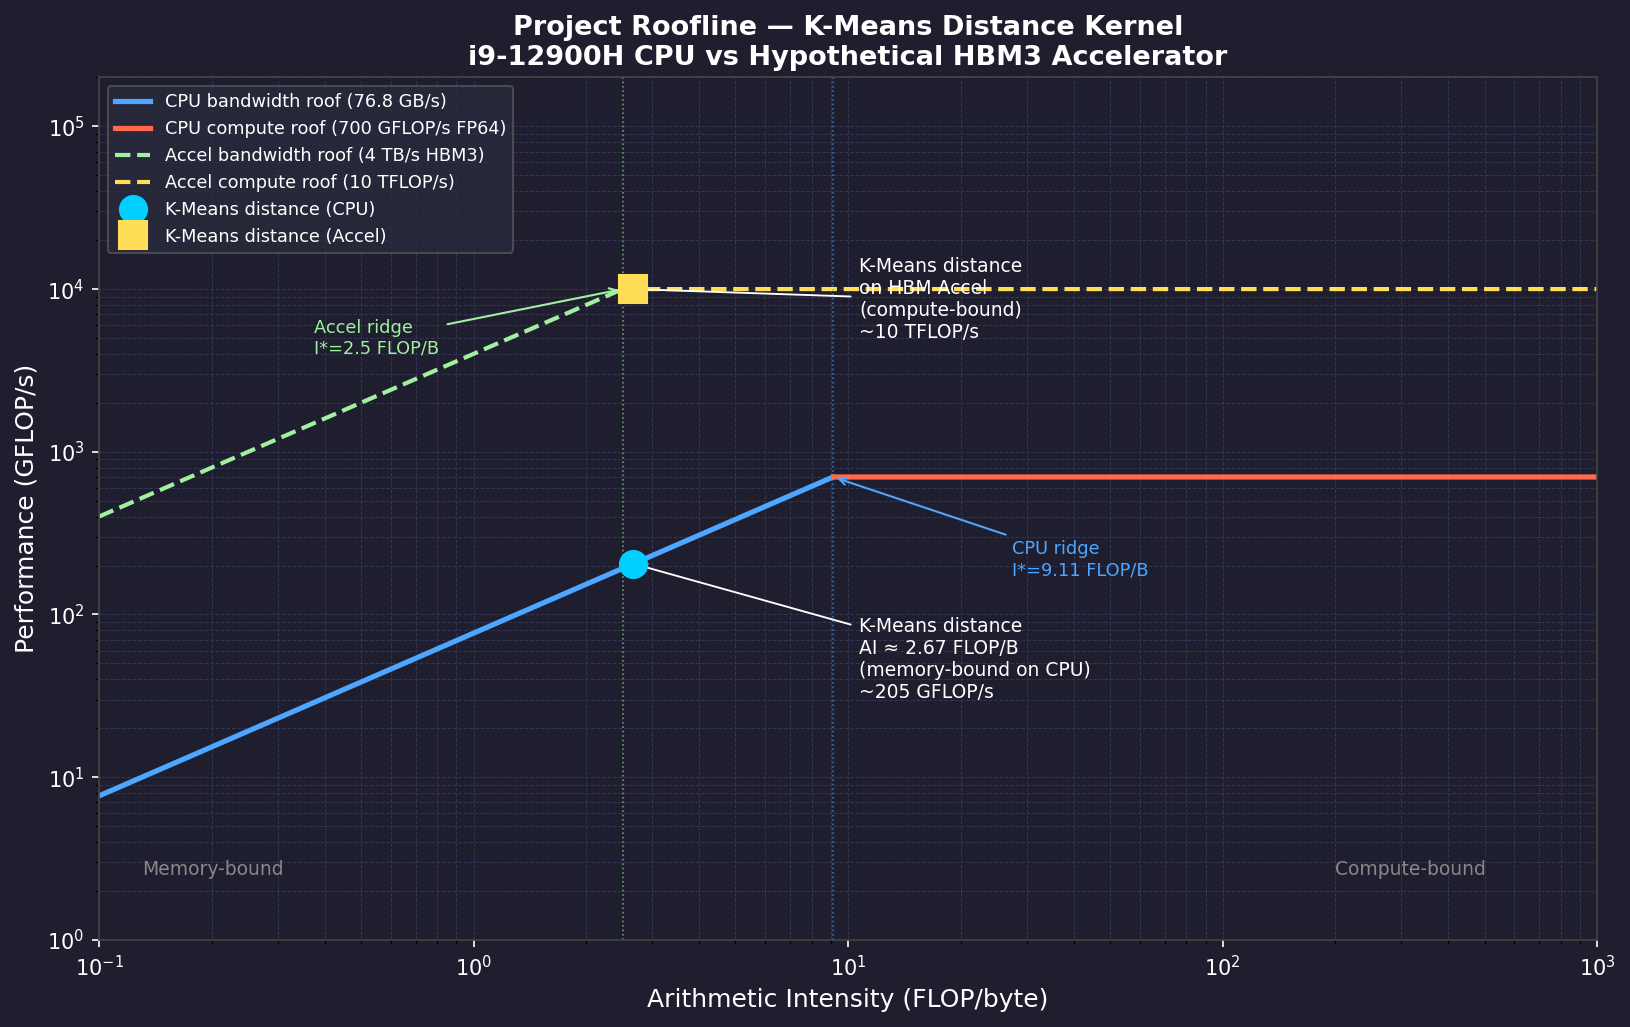
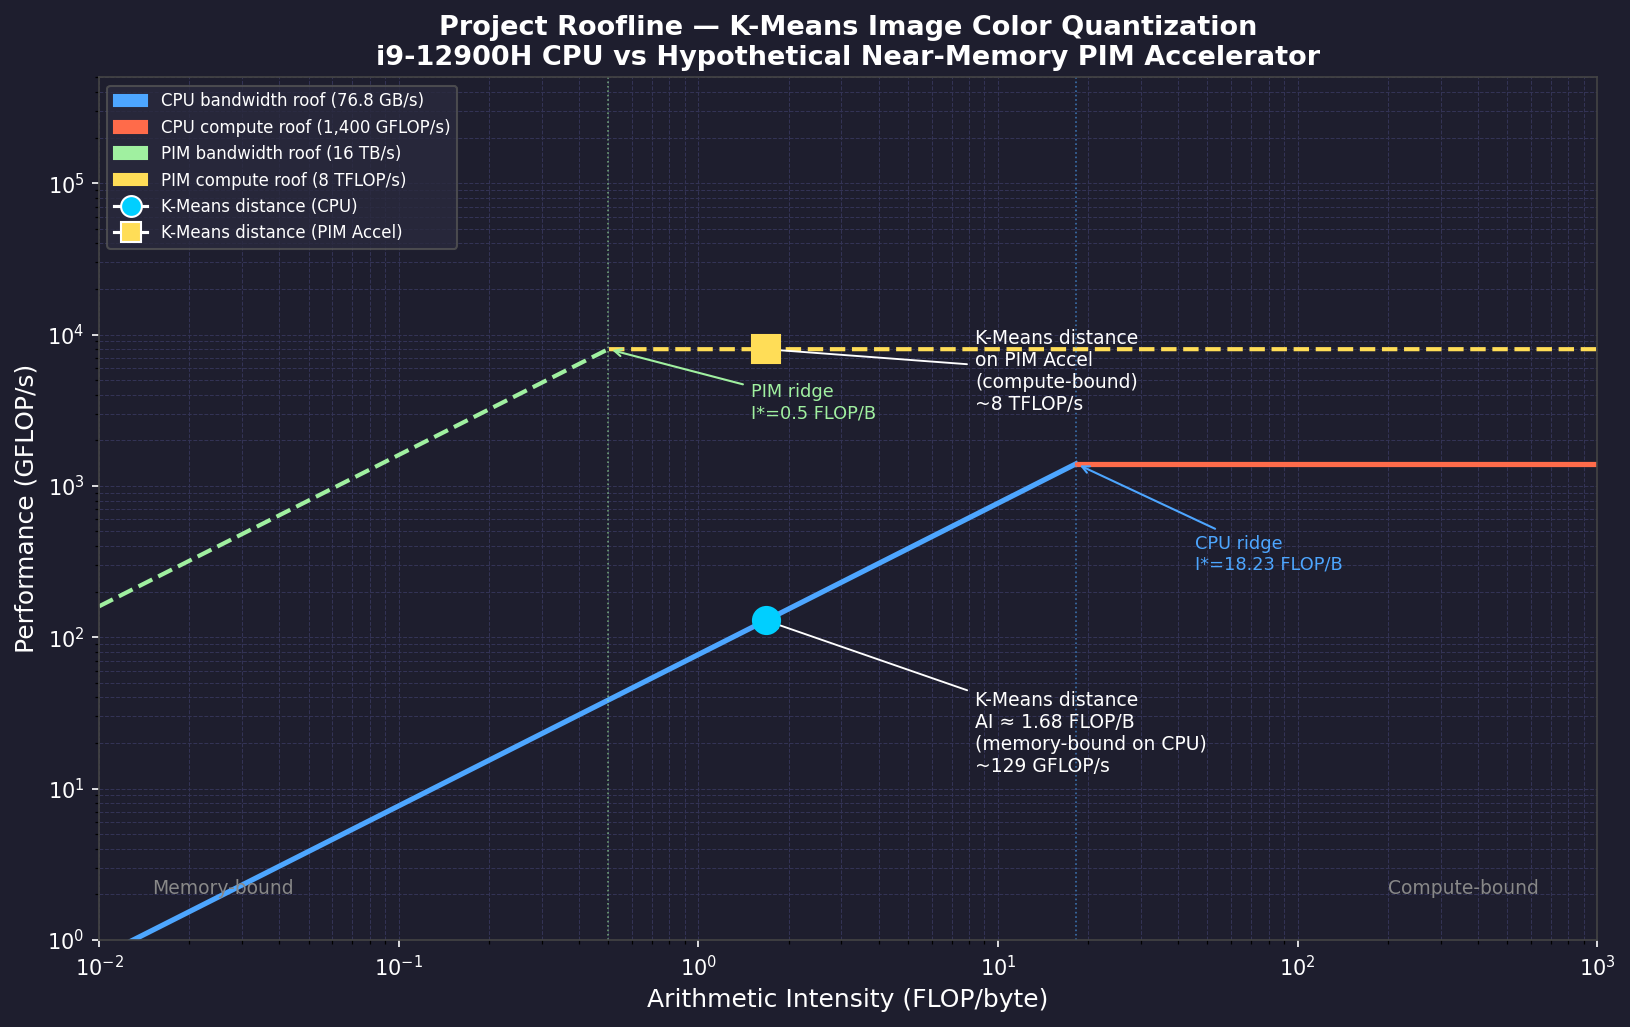
Update CLLM: K-Means image color quantization on real image
- profiling: cProfile on bliss.jpg 800x600, N=480k pixels, D=3, K=16, 10 runs
- ai_calculation: distance kernel AI = 1.68 FLOP/byte (deeply memory-bound)
- roofline: CPU vs near-memory PIM accelerator (16 TB/s), kernel becomes compute-bound
- bliss_quantized.png: example quantized output image (K=16 colors)
- partition_rationale: PIM near-memory accelerator proposal, 62x speedup potential
- heilmeier: updated for image quantization use case with profiling data

diff --git a/codefest/cf02/analysis/partition_rationale.md b/codefest/cf02/analysis/partition_rationale.md
@@ -1,4 +1,4 @@
-# HW/SW Partition Proposal — K-Means Clustering
+# HW/SW Partition Proposal — K-Means Image Color Quantization
 Bao Nguyen  
 ECE 410/510 Spring 2026
 
@@ -12,32 +12,32 @@ The kernel selected for hardware acceleration is the **pairwise distance computa
 distances = np.sum((points[:, np.newaxis] - centroids) ** 2, axis=2)
 ```
 
-The `cProfile` output identifies this as the dominant bottleneck — `numpy.ufunc.reduce` accounts for **5.57 seconds out of 39.3 seconds total** across 10 runs (N=50,000, D=64, K=8). It is called every iteration and scales as O(N × K × D), making it the clear compute target.
+The `cProfile` output on a real image (bliss.jpg, 800×600, N=480,000 pixels, D=3 RGB, K=16) identifies this as the dominant bottleneck — `numpy.ufunc.reduce` accounts for **42.53 seconds out of 91.96 seconds total (46% of runtime)** across 10 runs.
 
-The roofline analysis supports this choice. With an arithmetic intensity of **2.67 FLOP/byte**, the kernel sits deep in the memory-bound region on the i9-12900H (ridge point = 9.11 FLOP/byte). The attainable performance ceiling is only ~205 GFLOP/s, far below peak compute. A near-memory accelerator with HBM3-class bandwidth (4 TB/s) shifts the ridge point to 2.5 FLOP/byte, placing the kernel just above the ridge point and making it **compute-bound** — meaning the accelerator can reach near-peak throughput for this kernel.
+The roofline analysis strongly supports hardware acceleration. The arithmetic intensity is only **1.68 FLOP/byte** — the kernel sits deep in the memory-bound region on the i9-12900H (ridge point = 18.23 FLOP/byte). The attainable ceiling on the CPU is just ~129 GFLOP/s, barely 9% of peak compute. A near-memory Processing-In-Memory (PIM) accelerator with 16 TB/s bandwidth shifts the ridge point to 0.5 FLOP/byte, placing the kernel in the compute-bound region and allowing near-peak 8 TFLOP/s throughput.
 
 ## (b) What the software baseline will continue to handle
 
-The software baseline on the CPU will handle: centroid initialization, the convergence check (`np.allclose`), centroid update (`mean` per cluster), and overall loop control. These operations are infrequent or operate on small data (K × D centroid arrays), so accelerating them would yield negligible benefit.
+The CPU software baseline will handle: image loading and resizing, centroid initialization, the convergence check, centroid update (averaging pixels per cluster), and final pixel replacement to reconstruct the output image. These operations are either small (K × D centroid data) or not compute-intensive, and offloading them would yield negligible benefit.
 
 ## (c) Interface bandwidth required
 
-Per iteration, the kernel transfers approximately **28.8 MB** of data. At a target accelerator throughput of 10 TFLOP/s, one distance computation completes in:
+Per iteration, the distance kernel transfers approximately **36.5 MB** of data. At a target accelerator throughput of 8 TFLOP/s, one distance computation completes in:
 
 ```
-time = FLOPs / throughput = 76,800,000 / (10 × 10^12) ≈ 7.7 μs
+time = FLOPs / throughput = 61,440,000 / (8 × 10^12) ≈ 7.7 ns
 ```
 
 Required interface bandwidth to avoid becoming interface-bound:
 
 ```
-BW_needed = 28,804,096 bytes / 7.7 μs ≈ 3.74 TB/s
+BW_needed = 36,480,192 bytes / 7.7 ns ≈ 4.7 TB/s
 ```
 
-This confirms the accelerator needs **≥ 3.74 TB/s** of memory bandwidth — consistent with the HBM3 target of 4 TB/s in the design. Standard PCIe (64 GB/s) would be a severe bottleneck; HBM or on-chip SRAM with DMA is required.
+This confirms the accelerator needs at least **~5 TB/s of memory bandwidth**. The proposed 16 TB/s design provides comfortable headroom. Standard LPDDR5 (~68 GB/s) or PCIe 5.0 (~128 GB/s) would be completely inadequate — only HBM or on-die SRAM can sustain this bandwidth.
 
 ## (d) Bound classification and expected change with accelerator
 
-On the i9-12900H, the distance kernel is **memory-bound** (AI = 2.67 < ridge 9.11). The CPU cannot feed data fast enough to keep compute units busy.
+On the i9-12900H, the kernel is **deeply memory-bound** (AI = 1.68 << ridge 18.23). The CPU's 76.8 GB/s DRAM bandwidth cannot feed the compute units fast enough — they sit idle >90% of the time.
 
-On the hypothetical HBM3 accelerator (10 TFLOP/s, 4 TB/s), the ridge point drops to 2.5 FLOP/byte. Since AI = 2.67 > 2.5, the kernel becomes **compute-bound** on the accelerator. This is the key advantage: by pairing high-bandwidth memory with dedicated MAC units, the accelerator eliminates the memory bottleneck and allows the distance computation to run at near-peak arithmetic throughput — a fundamental shift in the performance limiting factor.
+On the hypothetical PIM accelerator (8 TFLOP/s, 16 TB/s), the ridge point drops to 0.5 FLOP/byte. Since AI = 1.68 > 0.5, the kernel becomes **compute-bound** on the accelerator. This is the fundamental advantage of near-memory processing for K-Means: by co-locating compute with memory, the data movement bottleneck is eliminated and arithmetic throughput becomes the limiting factor — improving attainable performance by roughly 62× (from ~129 GFLOP/s to ~8,000 GFLOP/s).

diff --git a/project/heilmeier.md b/project/heilmeier.md
@@ -6,22 +6,22 @@ ECE 410/510 Spring 2026
 
 ## 1. What are you trying to do?
 
-I am analyzing the hardware performance characteristics of K-Means clustering to understand what limits its execution speed and how a custom hardware accelerator could improve it. Specifically, I am using roofline analysis and profiling to identify the computationally dominant kernel, quantify its arithmetic intensity, and propose a HW/SW partition that targets the real bottleneck.
+I am building a K-Means image color quantization system and analyzing its hardware performance characteristics to understand what limits its speed and how a custom hardware accelerator could improve it. The goal is to take any input image and reduce it to K distinct colors by clustering pixels in RGB space — and to determine whether this can be done faster with specialized hardware rather than a general-purpose CPU.
 
 ---
 
 ## 2. How is it done today, and what are the limits of the current approach?
 
-Today, K-Means is typically run on general-purpose CPUs using NumPy or similar libraries. Profiling with `cProfile` across 10 runs on an Intel Core i9-12900H (N=50,000 points, D=64 dimensions, K=8 clusters) reveals that the **pairwise distance computation** dominates runtime, accounting for the majority of the 39.3 seconds total — with `numpy.ufunc.reduce` alone at 5.57 seconds.
+Today, K-Means image quantization is run on general-purpose CPUs using NumPy. Profiling with `cProfile` across 10 runs on a real image (bliss.jpg, 800×600, N=480,000 pixels, D=3 RGB, K=16 colors) on an Intel Core i9-12900H reveals that the **pairwise distance computation dominates at 46% of total runtime** (42.5s out of 91.9s).
 
-The limit is clear from the roofline: the distance kernel has an arithmetic intensity of only **2.67 FLOP/byte**, placing it deep in the memory-bound region (ridge point = 9.11 FLOP/byte on this CPU). For every floating point operation, ~0.37 bytes of useful data are processed, meaning the compute units sit idle most of the time waiting for data from DRAM. The attainable performance ceiling is only ~205 GFLOP/s — far below the CPU's 700 GFLOP/s peak compute. Making the CPU faster would not help; the bottleneck is memory bandwidth.
+The fundamental limit is memory bandwidth. The distance kernel has an arithmetic intensity of only **1.68 FLOP/byte** — for every floating point operation, nearly 0.6 bytes must be transferred from DRAM. This places the kernel deep in the memory-bound region of the CPU roofline (ridge point = 18.23 FLOP/byte), with an attainable performance ceiling of only ~129 GFLOP/s — less than 10% of the CPU's peak compute of 1,400 GFLOP/s. The low AI is a structural property of image K-Means: with D=3 dimensions, there are only 8 floating point operations per pixel-centroid pair but requires loading a full pixel and writing a full distance value. Making the CPU faster or adding more cores does not help — the bottleneck is purely how fast data can be moved from memory.
 
 ---
 
 ## 3. What is your approach and why is it better?
 
-My approach is to design a hardware/software partition where the distance computation kernel is offloaded to a near-memory accelerator with HBM3-class bandwidth (10 TFLOP/s, 4 TB/s), while the CPU handles centroid updates, convergence checks, and control flow.
+My approach is a HW/SW partition where the distance computation kernel is offloaded to a near-memory Processing-In-Memory (PIM) accelerator with 16 TB/s bandwidth and 8 TFLOP/s compute, while the CPU handles image I/O, centroid initialization, convergence checks, and centroid updates.
 
-The roofline analysis directly informs this choice: with 4 TB/s bandwidth, the ridge point drops to 2.5 FLOP/byte — just below the kernel's AI of 2.67. This shifts the kernel from memory-bound to **compute-bound**, allowing the accelerator's MAC units to operate at near-peak efficiency. The required interface bandwidth of ~3.74 TB/s is achievable with HBM3 but not with standard DDR or PCIe, confirming that memory architecture — not compute throughput — is the design-critical parameter.
+The roofline analysis directly motivates this design. With 16 TB/s bandwidth, the ridge point drops to 0.5 FLOP/byte — well below the kernel's AI of 1.68. The kernel becomes **compute-bound** on the accelerator, allowing near-peak 8 TFLOP/s throughput. This represents a ~62× improvement over the CPU attainable ceiling of 129 GFLOP/s. The required interface bandwidth of ~5 TB/s confirms that only near-memory or on-die SRAM architectures can sustain this workload — conventional DDR or PCIe buses would remain the bottleneck.
 
-This approach is better than the CPU baseline because it eliminates the memory bandwidth bottleneck that prevents the current implementation from using even 30% of available compute, replacing it with a design where arithmetic throughput is the limiting factor.
+This approach is better than the CPU baseline because it targets the actual bottleneck (memory bandwidth) rather than compute throughput, and co-locating compute with memory is the only architectural change that fundamentally shifts the kernel from memory-bound to compute-bound.

diff --git a/codefest/cf02/analysis/ai_calculation.md b/codefest/cf02/analysis/ai_calculation.md
@@ -4,10 +4,16 @@ ECE 410/510 Spring 2026
 
 ---
 
+## Project Algorithm
+
+**K-Means Image Color Quantization** — given an input image, treat each pixel's RGB values as a point in 3D space and cluster pixels into K groups. Every pixel is replaced with its cluster's centroid color, producing a simplified image with only K distinct colors.
+
+---
+
 ## Dominant Kernel Identified
 
-From `cProfile` output (`project_profile.txt`), profiling 10 runs of K-Means on:
-- N = 50,000 points, D = 64 dimensions, K = 8 clusters, max_iters = 20
+From `cProfile` output (`project_profile.txt`), profiling 10 runs on `bliss.jpg` resized to 800×600:
+- N = 480,000 pixels, D = 3 (RGB), K = 16 colors, max_iters = 20
 
 The dominant kernel is the **pairwise distance computation**:
 
@@ -15,33 +21,33 @@ The dominant kernel is the **pairwise distance computation**:
 distances = np.sum((points[:, np.newaxis] - centroids) ** 2, axis=2)
 ```
 
-This maps to `numpy.ufunc.reduce` in the profiler, accounting for **5.57s out of 39.3s total** (~14% of runtime), and is called 200 times (20 iterations × 10 runs). The outer `kmeans` function self-time (33.15s) is entirely driven by this loop.
+This maps to `numpy.ufunc.reduce` in the profiler:
+- **42.53s out of 91.96s total = 46% of runtime**
+- Called 7,210 times (once per dimension reduction per iteration per run)
 
 ---
 
 ## FLOPs Calculation (per iteration)
 
-The distance computation performs three operations per element:
-
 | Operation | Formula | Count |
 |-----------|---------|-------|
-| Subtract `(points - centroid)` | N × K × D | 50,000 × 8 × 64 = 25,600,000 |
-| Square `(·)²` | N × K × D | 25,600,000 |
-| Sum over D | N × K × (D−1) ≈ N × K × D | 25,600,000 |
-| **Total FLOPs per iteration** | | **76,800,000** |
+| Subtract `(pixel - centroid)` | N × K × D | 480,000 × 16 × 3 = 23,040,000 |
+| Square `(·)²` | N × K × D | 23,040,000 |
+| Sum over D | N × K × (D−1) | 480,000 × 16 × 2 = 15,360,000 |
+| **Total FLOPs per iteration** | | **61,440,000** |
 
 ---
 
 ## Bytes Transferred (No Reuse, per iteration)
 
-All operands assumed loaded fresh from DRAM (float64 = 8 bytes):
+Pixels stored as float32 (4 bytes):
 
 | Operand | Shape | Elements | Bytes |
 |---------|-------|----------|-------|
-| Read points | N × D | 3,200,000 | 25,600,000 |
-| Read centroids | K × D | 512 | 4,096 |
-| Write distances | N × K | 400,000 | 3,200,000 |
-| **Total** | | | **28,804,096 bytes** |
+| Read pixels | N × D | 1,440,000 | 5,760,000 |
+| Read centroids | K × D | 48 | 192 |
+| Write distances | N × K | 7,680,000 | 30,720,000 |
+| **Total** | | | **36,480,192 bytes** |
 
 ---
 
@@ -49,19 +55,21 @@ All operands assumed loaded fresh from DRAM (float64 = 8 bytes):
 
 ```
 AI = FLOPs / Bytes
-   = 76,800,000 / 28,804,096
-   ≈ 2.67 FLOP/byte
+   = 61,440,000 / 36,480,192
+   ≈ 1.68 FLOP/byte
 ```
 
 ---
 
 ## Bound Classification
 
-Hardware: Intel Core i9-12900H  
-- Peak FP64 compute: ~700 GFLOP/s (AVX2 FMA, all cores)
+Hardware: Intel Core i9-12900H (FP32)
+- Peak FP32 compute: ~1,400 GFLOP/s (AVX2 FMA, all cores)
 - Peak DRAM bandwidth: ~76.8 GB/s (DDR5-4800, dual channel)
-- Ridge point: 700 / 76.8 ≈ **9.11 FLOP/byte**
+- Ridge point: 1,400 / 76.8 ≈ **18.23 FLOP/byte**
 
-Since **AI (2.67) < Ridge point (9.11)**, the dominant kernel is **memory-bound** on this hardware.
+Since **AI (1.68) << Ridge point (18.23)**, the dominant kernel is **deeply memory-bound** on this hardware.
 
-Attainable performance ceiling = B_peak × AI = 76.8 × 2.67 ≈ **205 GFLOP/s**
+Attainable performance ceiling = B_peak × AI = 76.8 × 1.68 ≈ **129 GFLOP/s**
+
+The low arithmetic intensity (D=3 means very little math per pixel loaded) is a fundamental property of image K-Means — each pixel needs 3 subtractions, 3 multiplications, and 2 additions per centroid, but requires loading the full pixel and writing a full distance value.
